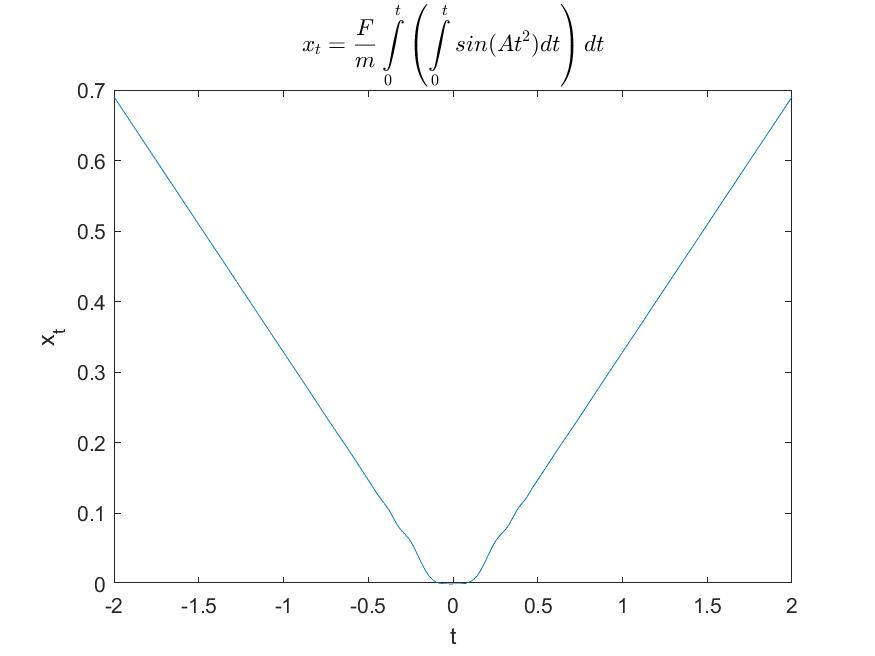
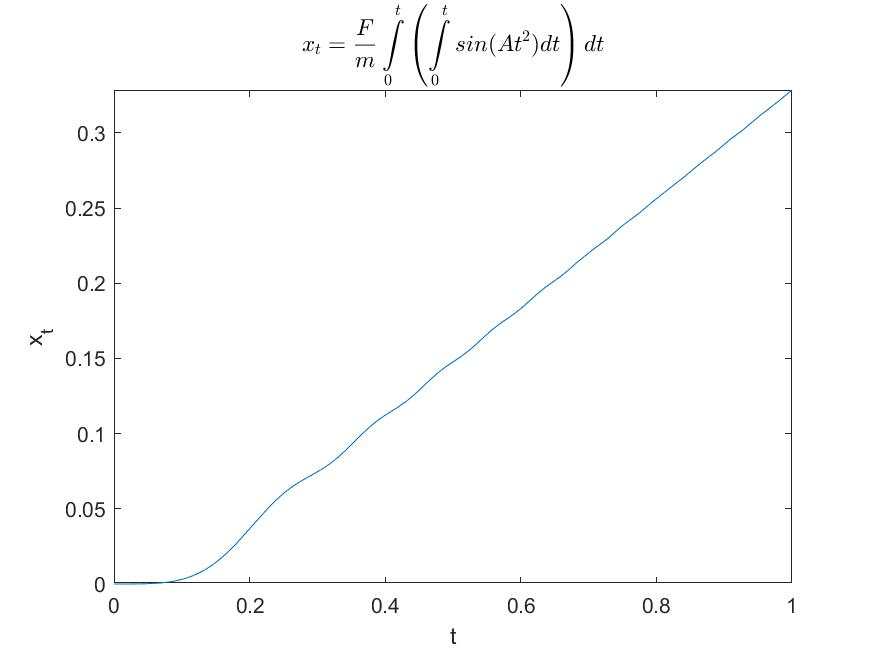
Update plots
Automate saving plots

diff --git a/Simulation 1/Simulation_1.m b/Simulation 1/Simulation_1.m
@@ -23,7 +23,7 @@ end
 % Plotting x vs t
 figure(1);
 answerx = F * int(xint, t, 0, t) / m;   % Evaluating the second integral
-fplot(answerx, [-2, 2]);                % Plotting the required function
+fplot(answerx, [0, 1]);                % Plotting the required function
 title('$$x_t = \frac{F}{m} \int\displaylimits_0^t \left( \int\displaylimits_0^t sin(A t^2) dt \right) dt$$','interpreter','latex')
 xlabel('t');
 ylabel('x_t');
@@ -32,7 +32,7 @@ print('1. x vs t.jpg','-djpeg');
 % Plotting y vs t
 figure(2);
 answery = F * int(yint, t, 0, t) / m;   % Evaluating the second integral
-fplot(answery, [-2, 2]);                % Plotting the required function
+fplot(answery, [0, 1]);                % Plotting the required function
 title('$$y_t = \frac{F}{m} \int\displaylimits_0^t \left( \int\displaylimits_0^t cos(A t^2) dt \right) dt$$','interpreter','latex')
 xlabel('t');
 ylabel('y_t');
@@ -40,8 +40,16 @@ print('2. y vs t.jpg','-djpeg');
 
 % Plotting x vs y
 figure(3);
-fplot(answerx, answery);
+fplot(answerx, answery, [0, 1]);
 title('Trajectory');
 xlabel('x');
 ylabel('y');
 print('3. x vs y.jpg','-djpeg');
+
+% Plotting x vs y
+figure(4);
+fplot(answerx, answery, [0, 10]);
+title('Trajectory');
+xlabel('x');
+ylabel('y');
+print('4. x vs y zoomed out.jpg','-djpeg');
